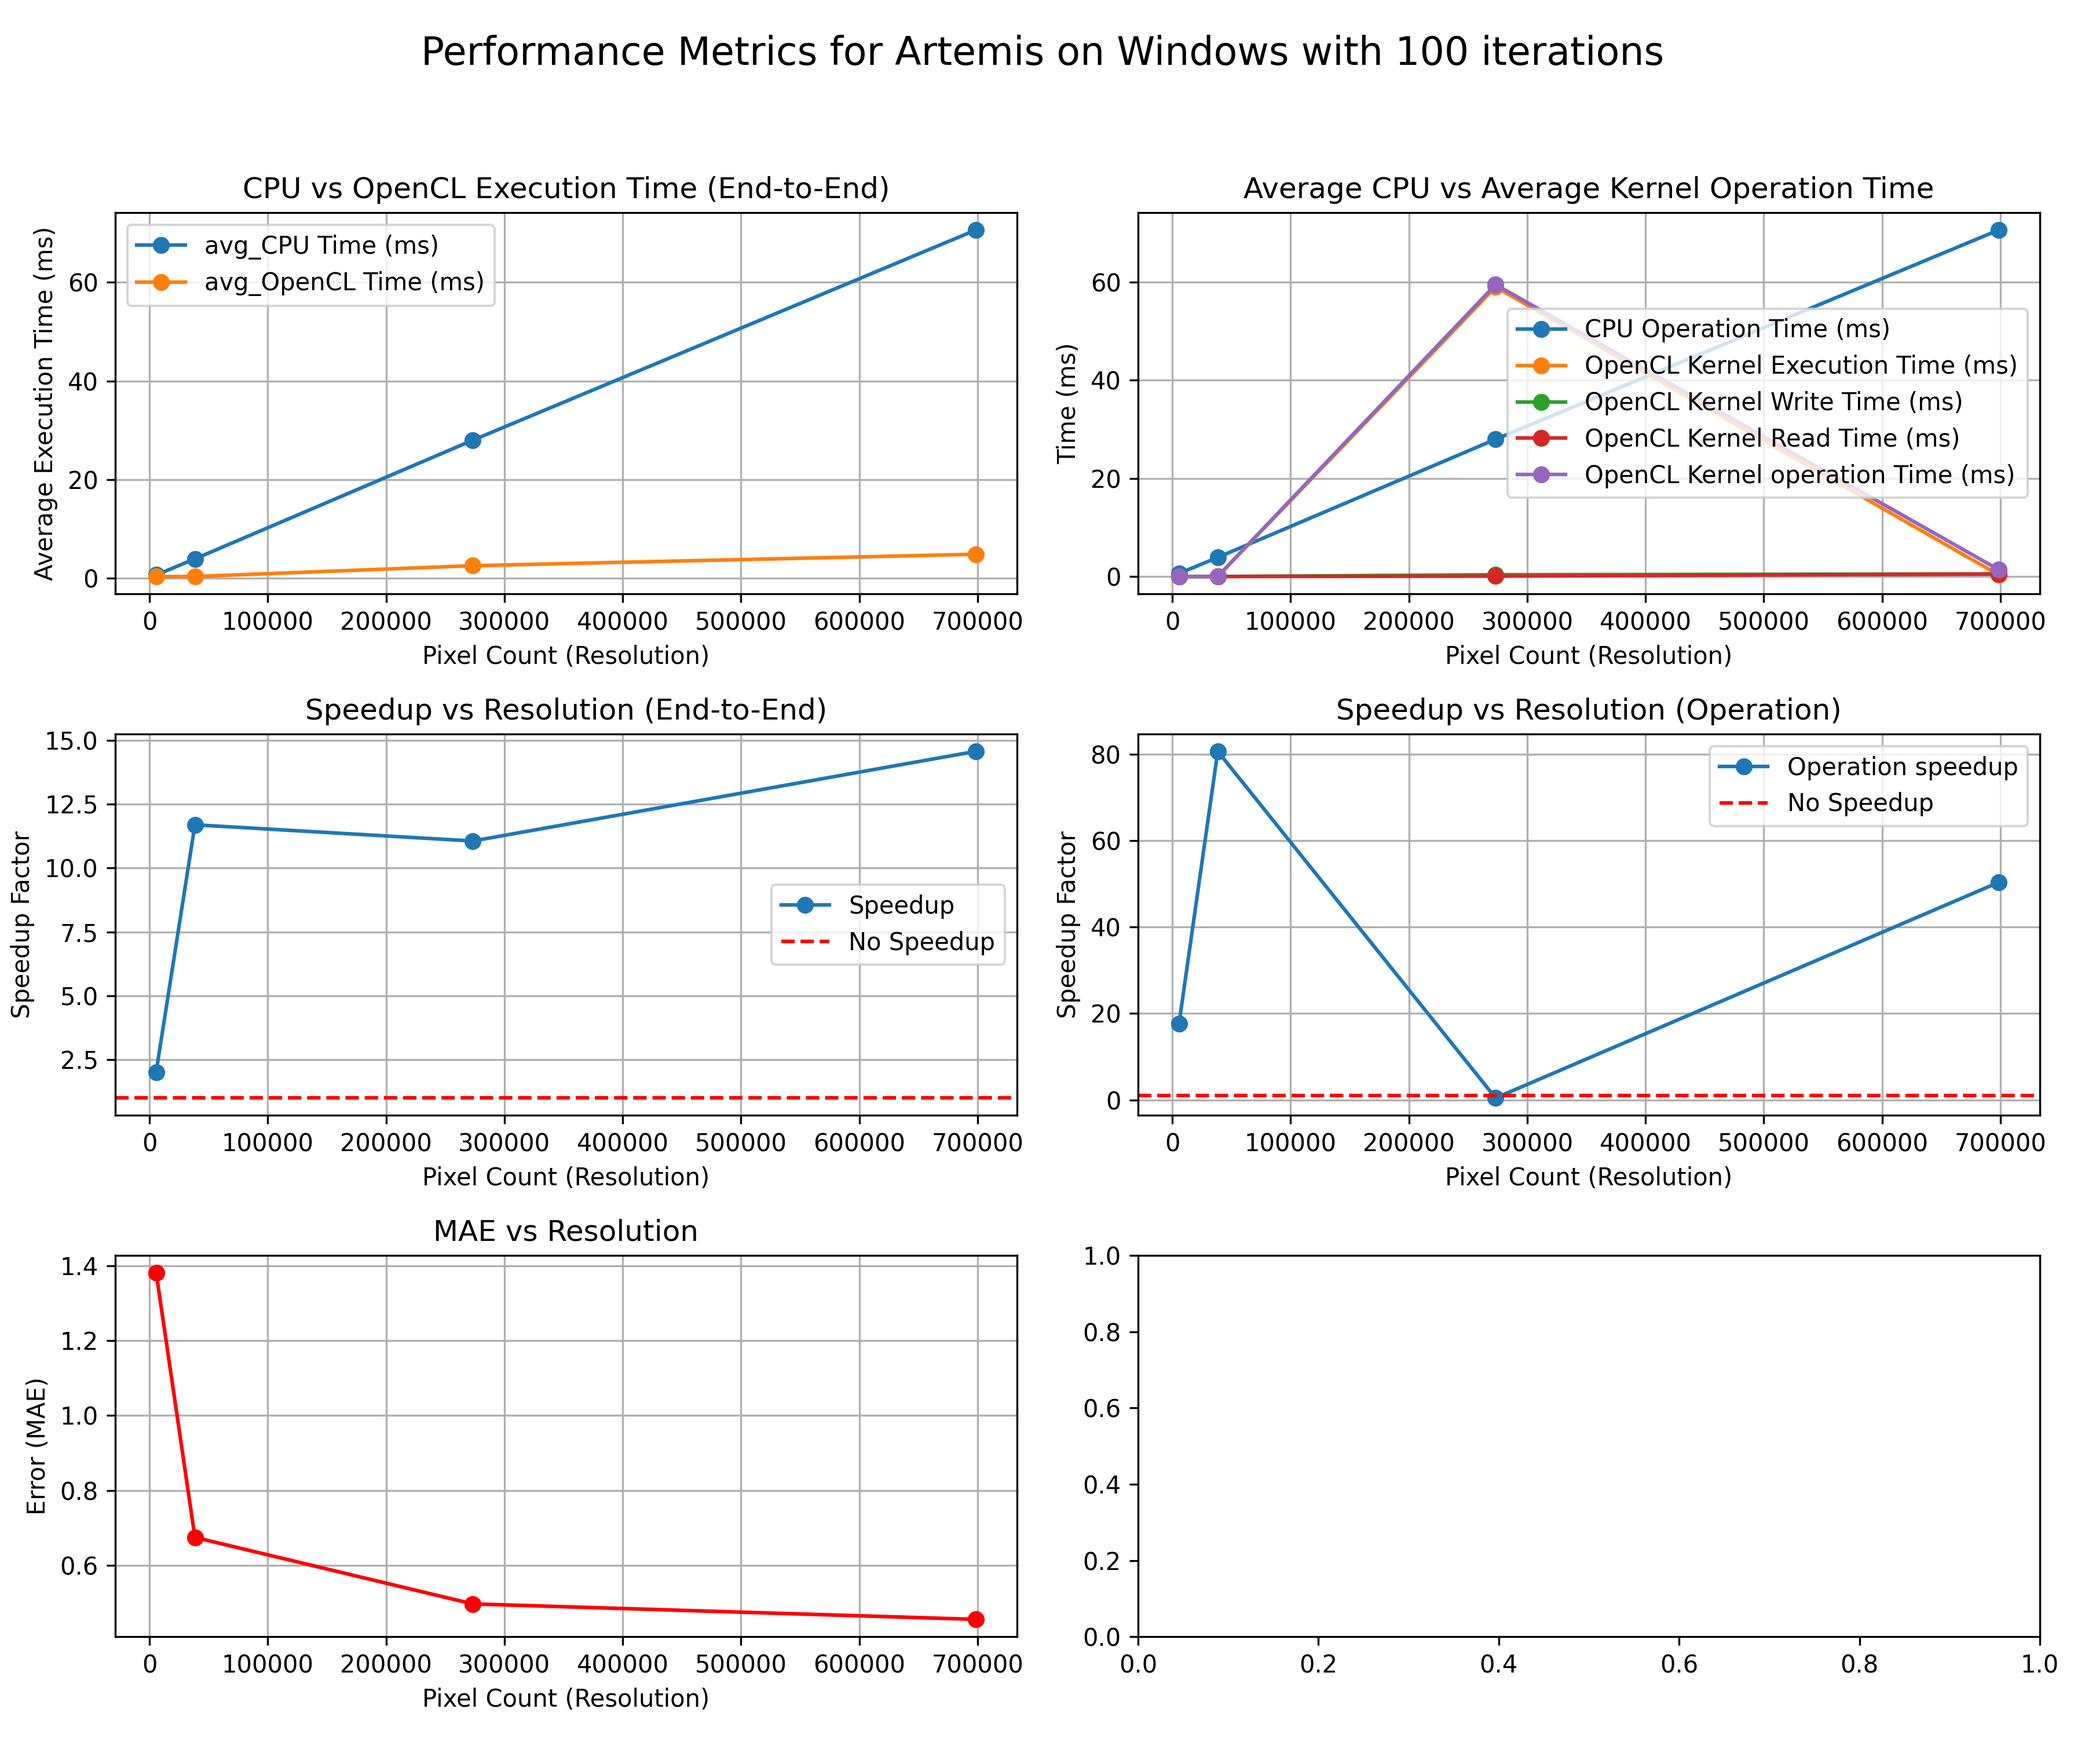
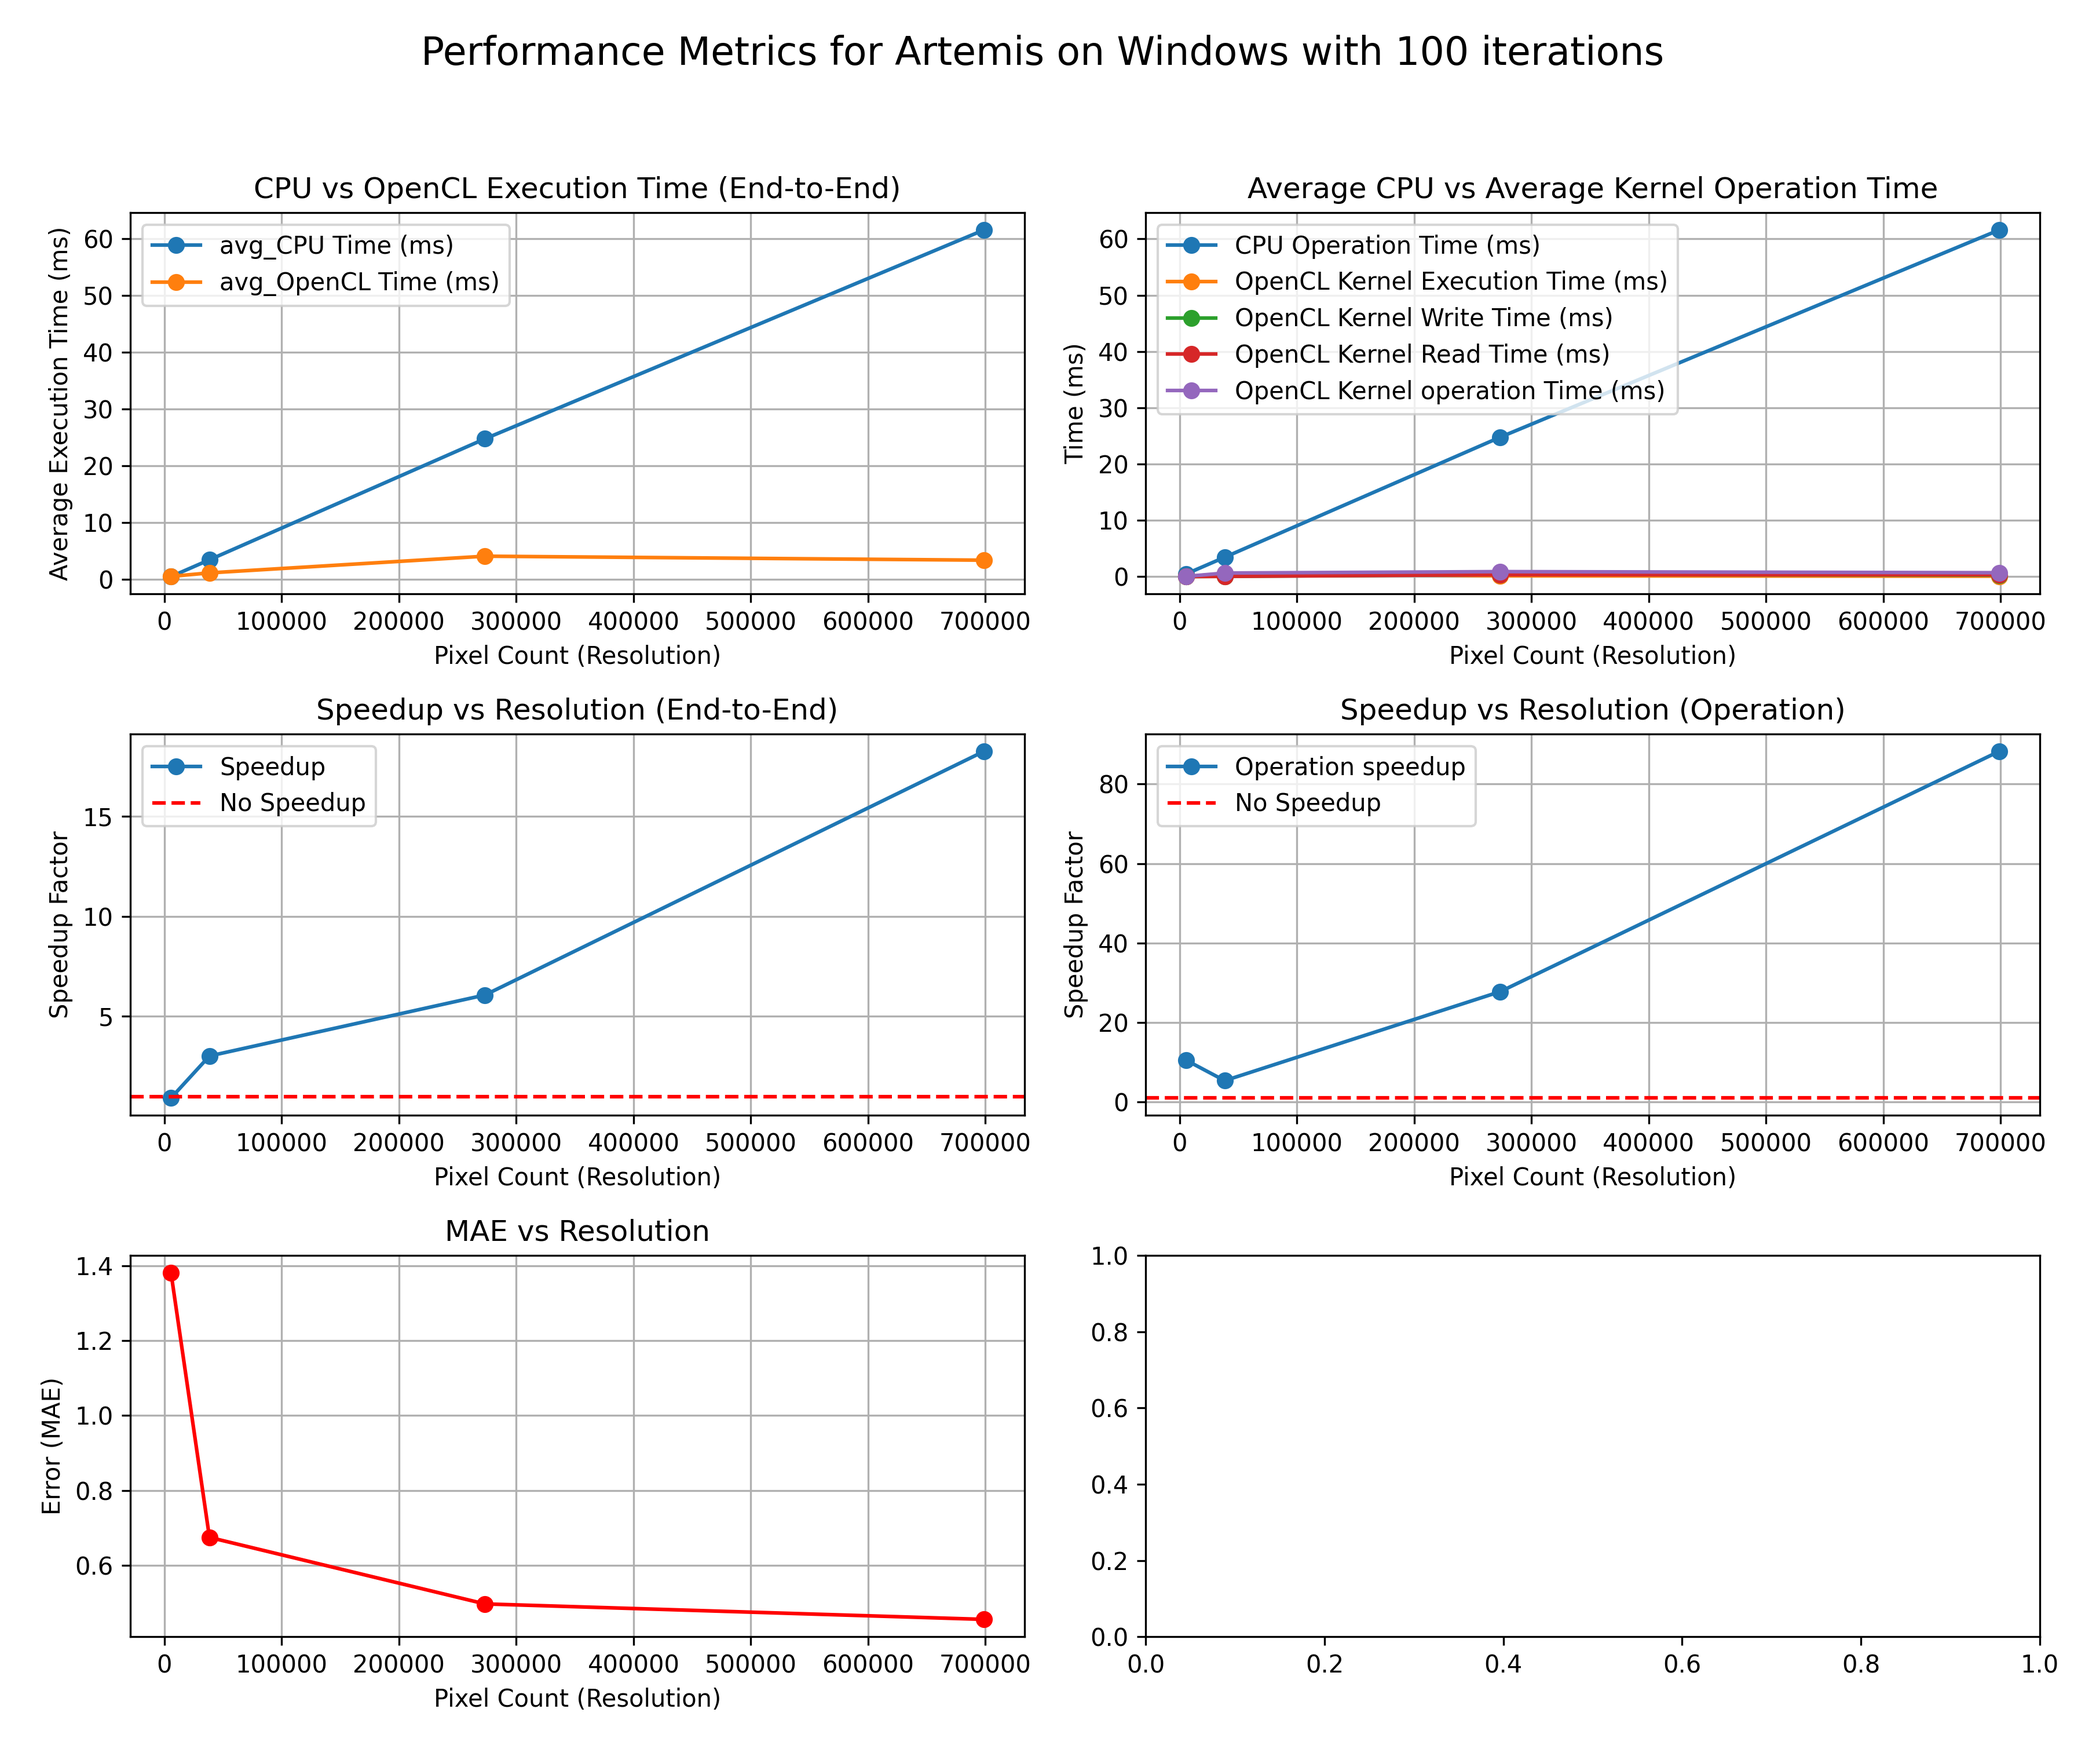
performed cleanup on gaussian-blur

diff --git a/src/GaussianBlur/results/visualisation.py b/src/GaussianBlur/results/visualisation.py
@@ -4,7 +4,7 @@ import matplotlib.pyplot as plt
 
 # 0 - Linux
 # 1 - Windows
-USING_OS = 0
+USING_OS = 1
 
 # 0 - Debug
 # 1- Release
